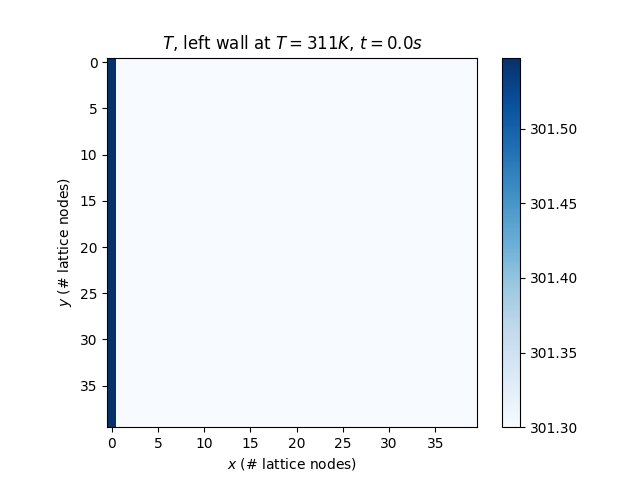
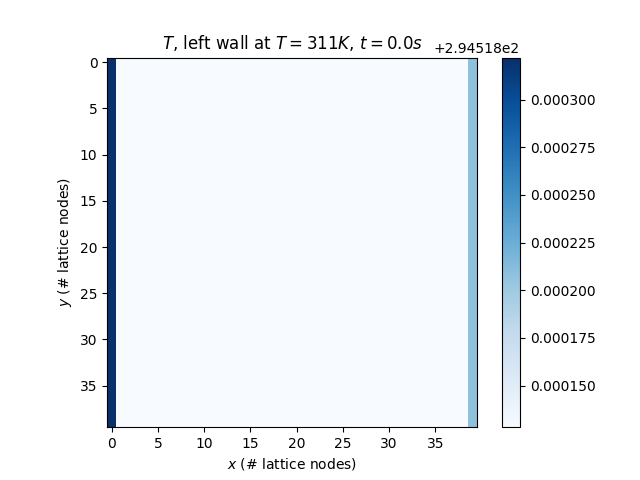
Commit 1 15apr

diff --git a/Tlinear_sq_cav.py b/Tlinear_sq_cav.py
@@ -8,14 +8,14 @@ from numba import njit
 
 np.set_printoptions(threshold=sys.maxsize)
 pd.set_option("display.max_rows", None, "display.max_columns", None)
-folder_nr = 'gallium_Tlinear'
+folder_nr = 'test' #gallium_Tlinear'
 
-# # Define constants
+# Define constants
 # # Physical parameters water
 # L = 0.1             # Length of cavity (m)
 # H = L               # Height of cavity (m)
 # g = 9.81            # Gravitational acceleration (m/s^2)
-# Time = 20000         # (s)
+# Time = 400         # (s)
 # nu = 1e-6           # Kinematic viscosity (m^2/s)
 # alpha = 1.44e-7     # Thermal diffusivity (m^2/s)
 # lbda = 0.6          # Thermal conductivity (W/m K)
@@ -26,15 +26,15 @@ folder_nr = 'gallium_Tlinear'
 # Tm = 273.15         # Melting point (K)
 #
 # # Domain parameters
-# T0 = 272          # Starting temperature (K)
+# T0 = 275          # Starting temperature (K)
 # T_H = 285         # Hot wall temperature (K)
-# T_C = 272         # Hot wall temperature (K)
+# T_C = 275         # Hot wall temperature (K)
 # epsilon = 0.05 * (T_H - T_C)  # Width mushy zone (K)
 # umax = np.sqrt(g * beta * (T_H - T0) * L)           # Maximal velocity
 
 # Physical parameters gallium
 Time = 400         # (s)
-L = 0.0889             # Length of cavity (m)
+L = 0.1             # Length of cavity (m)
 H = 0.714*L      # Height of cavity (m)
 g = 9.81            # Gravitational acceleration (m/s^2)
 rho0 = 6.093e3      # Density (kg/m^3)
@@ -48,11 +48,12 @@ alpha = lbda / (rho0 * c_p)     # Thermal diffusivity (m^2/s)
 Tm = 302.8          # Melting point (K)
 
 # Domain parameters
-T0 = 301.3          # Starting temperature (K)
+T0 = 305 #301.3          # Starting temperature (K)
 T_H = 311           # Hot wall temperature (K)
-T_C = 301.3         # Cold wall temperature (K)
+T_C = 305 #301.3         # Cold wall temperature (K)
 epsilon = 0.05 * (T_H - T_C)  # Width mushy zone (K)
 umax = np.sqrt(g * beta * (T_H - T0) * L)           # Maximal velocity
+print(umax)
 
 # Dimensionless numbers
 Re = umax * H / nu                                  # Reynolds number
@@ -63,7 +64,7 @@ Ma = 0.1                                            # Mach number
 
 # Choose simulation parameters
 Lambda = 1/4        # Magic parameter
-tau_plus = 0.5005     # Even relaxation time
+tau_plus = 0.5002     # Even relaxation time
 rho0_sim = 1        # Starting simulation density
 Ny = 40             # Nodes in y-direction
 
@@ -112,8 +113,8 @@ ux = np.zeros(dim)                 # Simulation velocity in x direction
 uy = np.zeros(dim)                 # Simulation velocity in y direction
 rho_sim = rho0_sim * np.ones(dim)  # Simulation density
 T_dim = np.zeros((Nx+2, Ny+2))     # Dimensionless simulation temperature
-f_l = np.zeros(dim)                # Liquid fraction
-h = c_p * T0 * np.ones(dim)        # Enthalpy
+f_l = np.ones(dim)  #np.zeros(dim)                # Liquid fraction
+h = (c_p * T0 + Lat) * np.ones(dim)        # Enthalpy
 c_app = c_p * np.ones(dim)
 
 # Temperature BCS
@@ -423,13 +424,15 @@ def temperature(T_old_dim, h_old, c_app_old, f_l_old, ux_sim, uy_sim, t, T_dim_C
     Tl = Tm + epsilon
 
     h_s = c_s * Ts
-    h_l = h_s + Lat # + (c_s + c_l) / 2 * (Tl - Ts)
+    h_l = h_s + Lat + (c_s + c_l) / 2 * (Tl - Ts)
 
     T_H = T_dim_H / beta + T0
     T_C = T_dim_C / beta + T0
 
     ux = ux_sim * dx / dt
     uy = uy_sim * dx / dt
+
+    # easy_view(t, T_old_dim)
 
     def energy_eq(i, j, T, ux, uy, c_app, h, h_old):
         T_new = T[i, j] - (h[i-1, j-1] - h_old[i-1, j-1]) / c_app[i-1, j-1] \
@@ -509,18 +512,20 @@ def temperature(T_old_dim, h_old, c_app_old, f_l_old, ux_sim, uy_sim, t, T_dim_C
         else:
             continue
 
-    if (t > 5300) and (t < 5350):
-        easy_view(t, uy_sim)
+    if t % 10 == 0:
+        print(t, np.amax(uy_sim))
+        # easy_view(t, uy_sim)
         # easy_view(t, ux_sim)
         # easy_view(t, T_new)
-
 
     if t % 100 == 0:
         print('t', t)
 
     T_dim = beta * (T_new - T0)
+    # easy_view(t, T_dim)
 
     return T_dim, h_new, c_app, f_l
+
 
 f_plus, f_minus = f_equilibrium(w_i, rho_sim, ux, uy, c_i, q, c_s)          # Initialize distributions
 
@@ -529,6 +534,7 @@ start = time.time()
 for t in range(Nt):
     ### Forcing
     T_dim_phys = T_dim[1:-1, 1:-1]                                          # Select only physical domain w/out ghost nodes
+    # easy_view(t, T_dim_phys)
 
     if np.any(f_l[f_l == 1]):                                               # Check if at least one node is fully liquid
         T_dim_avg_l = np.mean(T_dim_phys[f_l == 1])                         # Take average of all liquid nodes
@@ -545,6 +551,7 @@ for t in range(Nt):
 
     ux[np.round(B) == 1] = 0                                                # Force velocity in solid to zero
     uy[B == 1] = 0
+    # easy_view(t, B)
 
     ### Temperature
     T_dim, h, c_app, f_l = temperature(T_dim, h, c_app, f_l, ux, uy, t, T_dim_C, T_dim_H)                   # Calculate temperature and liquid fraction
@@ -563,7 +570,7 @@ for t in range(Nt):
     f_plus, f_minus = streaming(Nx, Ny, f_plus, f_minus, f_star)
 
     ### Plots
-    if (t % 10000 == 0):
+    if (t % 100 == 0):
         T = T_dim / beta + T0
 
         # Liquid fraction

diff --git a/sq_cav_th_trt.py b/sq_cav_th_trt.py
@@ -11,19 +11,41 @@ np.set_printoptions(threshold=sys.maxsize)
 pd.set_option("display.max_rows", None, "display.max_columns", None)
 
 # Define constants
-# Physical parameters
-L = 0.0112            # m
-H = L            # m
-g = 9.81            # m/s^2
-Time = 10           # s
-nu = 1e-6           # m^2/s
-alpha = 1.44e-7     # m^2/s
-rho0 = 1e3          # kg/m^3
-beta = 210e-6       # 1/K
-T0 = 293            # K
-T_C = 288           # K
-T_H = 298           # K
-umax = np.sqrt(g * beta * (T_H - T0) * L)
+# # Physical parameters water
+# L = 0.1            # m
+# H = L            # m
+# g = 9.81            # m/s^2
+# Time = 10           # s
+# nu = 1e-6           # m^2/s
+# alpha = 1.44e-7     # m^2/s
+# rho0 = 1e3          # kg/m^3
+# beta = 210e-6       # 1/K
+# T0 = 293            # K
+# T_C = 288           # K
+# T_H = 298           # K
+# umax = np.sqrt(g * beta * (T_H - T0) * L)
+
+# Physical parameters gallium
+Time = 40         # (s)
+L = 0.1             # Length of cavity (m)
+H = L      # Height of cavity (m)
+g = 9.81            # Gravitational acceleration (m/s^2)
+rho0 = 6.093e3      # Density (kg/m^3)
+lbda = 33           # Thermal conductivity (W/m K)
+mu = 1.81e-3        # Dynamic viscosity (Ns/m^2)
+nu = mu / rho0      # Kinematic viscosity (m^2/s)
+beta = 1.2e-4       # Thermal expansion (1/K)
+Lat = 8.016e5       # Latent heat (J/kg)
+c_p = 381           # Specific heat (J/(kgK))
+alpha = lbda / (rho0 * c_p)     # Thermal diffusivity (m^2/s)
+Tm = 302.8          # Melting point (K)
+
+# Domain parameters
+T0 = 301.3          # Starting temperature (K)
+T_H = 311           # Hot wall temperature (K)
+T_C = 301.3         # Cold wall temperature (K)
+epsilon = 0.05 * (T_H - T_C)  # Width mushy zone (K)
+umax = np.sqrt(g * beta * (T_H - T0) * L)           # Maximal velocity
 
 # Dimensionless numbers
 Re = umax * H / nu
@@ -34,9 +56,9 @@ Ma = 0.1
 
 # Choose simulation parameters
 Lambda = 1/4
-tau_plus = 0.55
+tau_plus = 0.501
 rho0_sim = 1
-Ny = 40
+Ny = 50
 
 dx_sim = 1          # simulation length
 dt_sim = 1          # simulation time
@@ -606,14 +628,14 @@ T = T_dim / beta + T0
 # plt.legend('Velocity vector')
 # plt.savefig(f"Figures/flow_test/streamplot_time{Time}_test.png")
 
-# Vector plot
-plt.figure(np.int(t/200)+2, dpi=300)
-plt.quiver(Cu*ux.T, Cu*uy.T)
-plt.xlabel('$x$ (# lattice nodes)')
-plt.ylabel('$y$ (# lattice nodes)')
-plt.title(f'$u$ in pipe with left wall at $T={T_H}K$ and right wall at $T={T_C}K$')
-# plt.legend('Velocity vector')
-plt.savefig(f"Figures/flow_test/arrowplot_time{Time}_test1.png")
+# # Vector plot
+# plt.figure(np.int(t/200)+2, dpi=300)
+# plt.quiver(Cu*ux.T, Cu*uy.T)
+# plt.xlabel('$x$ (# lattice nodes)')
+# plt.ylabel('$y$ (# lattice nodes)')
+# plt.title(f'$u$ in pipe with left wall at $T={T_H}K$ and right wall at $T={T_C}K$')
+# # plt.legend('Velocity vector')
+# plt.savefig(f"Figures/flow_test/arrowplot_time{Time}_test1.png")
 
 # Heatmaps
 plt.figure(2)

diff --git a/umax_approx.py b/umax_approx.py
@@ -1,0 +1,61 @@
+import numpy as np
+from scipy.optimize import least_squares, fsolve
+import math
+
+sqrt = np.emath.sqrt
+
+Time = 400          # (s)
+L = 0.1             # Length of cavity (m)
+H = 0.714*L         # Height of cavity (m)
+g = 9.81            # Gravitational acceleration (m/s^2)
+rho0 = 6.093e3      # Density (kg/m^3)
+lbda = 33           # Thermal conductivity (W/m K)
+mu = 1.81e-3        # Dynamic viscosity (Ns/m^2)
+nu = mu / rho0      # Kinematic viscosity (m^2/s)
+beta = 1.2e-4       # Thermal expansion (1/K)
+Lat = 8.016e5       # Latent heat (J/kg)
+c_p = 381           # Specific heat (J/(kgK))
+alpha = lbda / (rho0 * c_p)     # Thermal diffusivity (m^2/s)
+Tm = 302.8          # Melting point (K)
+
+# Domain parameters
+T0 = 305 #301.3          # Starting temperature (K)
+T_H = 311           # Hot wall temperature (K)
+T_C = 305 #301.3         # Cold wall temperature (K)
+epsilon = 0.05 * (T_H - T_C)  # Width mushy zone (K)
+umax = np.sqrt(g * beta * (T_H - T0) * L)           # Maximal velocity
+# print(umax)
+
+# Dimensionless numbers
+Re = umax * H / nu                                  # Reynolds number
+Ra = beta * (T_H - T0) * g * H**3 / (nu * alpha)    # Rayleigh number
+print('Ra', Ra)
+Pr = nu / alpha                                     # Prandtl number
+Ma = 0.1                                            # Mach number
+
+# u_max approximation
+c1 = 8.05
+c2 = 1.38
+c3 = 0.487
+c4 = 0.0252
+a = 0.922
+Re_L = (2*a)**2
+
+def f(x):
+    val = (1 + x**4)**(-1/4)
+
+    return val
+
+def g(y):
+    val = y * (1 + y**4)**(-1/4)
+
+    return val
+
+def equations(p):
+    Nu, Re = p
+    return ((Nu - 1) * Ra * Pr**(-2) - c1 * abs(Re)**2 / sqrt(Re_L/abs(Re)) * (1 + sqrt(Re_L/abs(Re))**4)**(-1/4) - c2 * abs(Re)**3, \
+            Nu - 1 - c3 * abs(Re)**(1/2) * Pr**(1/2) * f(2*a*Nu/sqrt(Re_L) * sqrt(Re_L/abs(Re)) * (1 + sqrt(Re_L/abs(Re))**4)**(-1/4)) - c4 * Pr * abs(Re) * f(2*a*Nu/sqrt(Re_L) * sqrt(Re_L/abs(Re)) * (1 + sqrt(Re_L/abs(Re))**4)**(-1/4)))
+
+x, y =  fsolve(equations, (10, 5000))
+
+print(x, y)4
